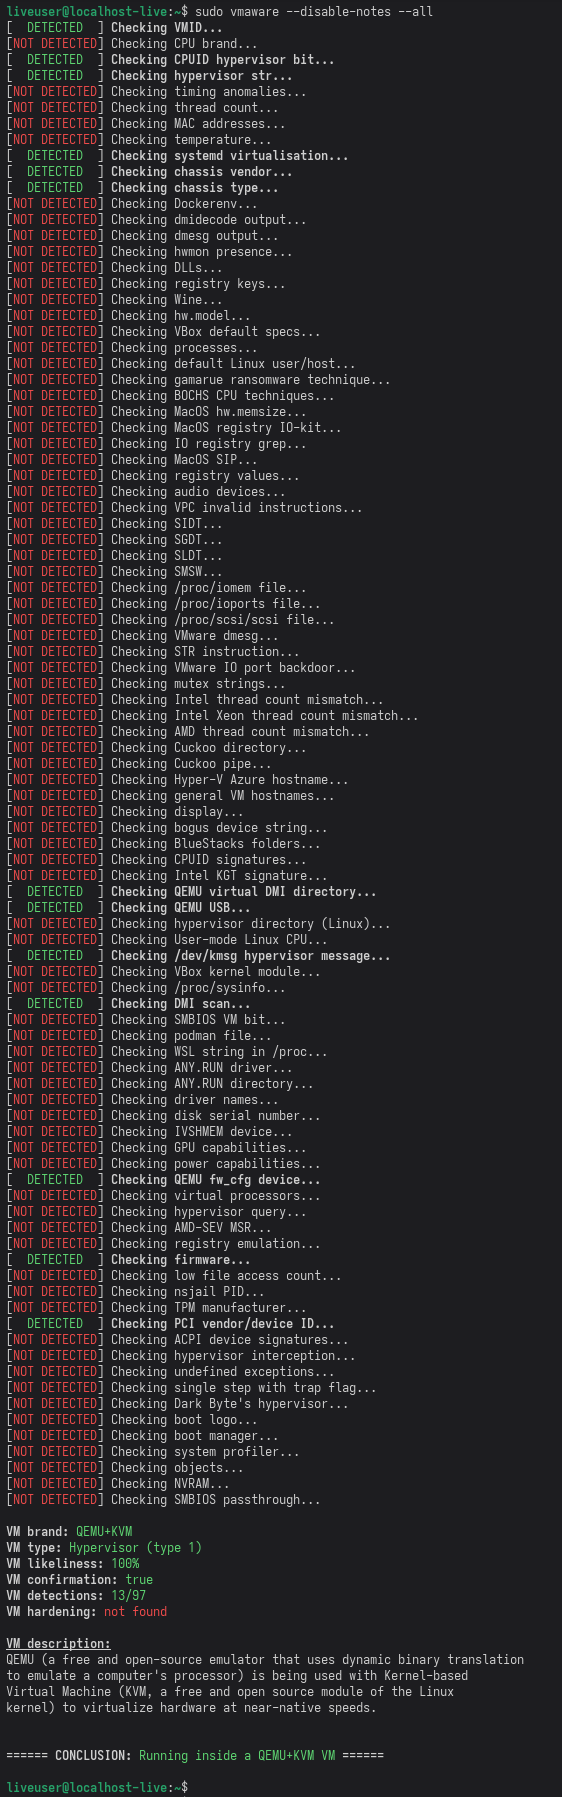
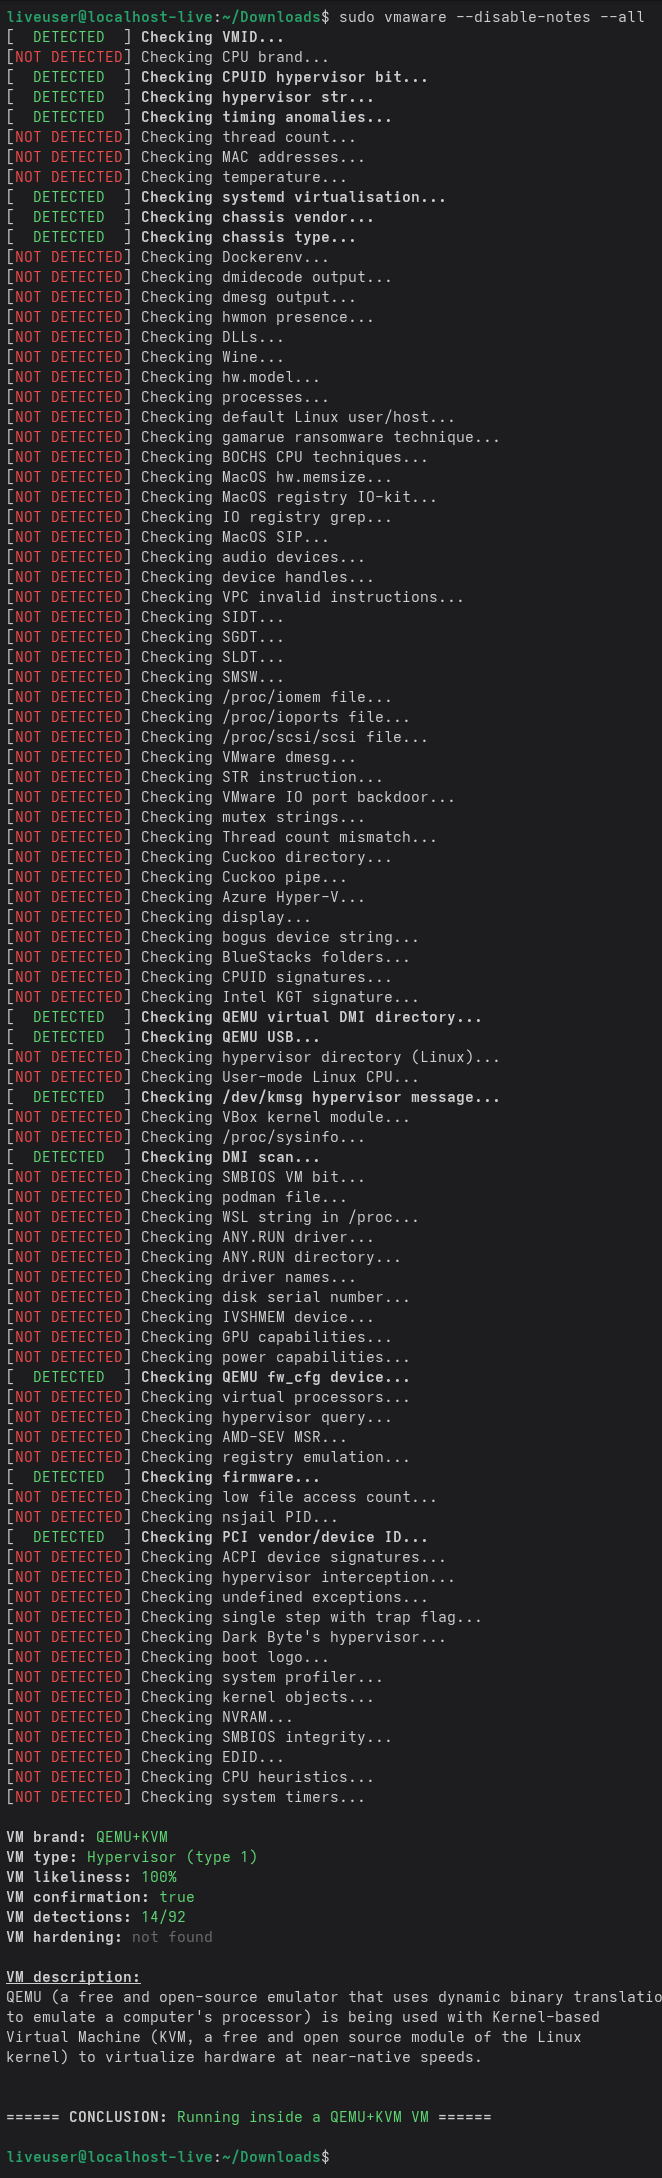
update: updated demo picture and added new emulator brands

Changed region(s): [[0.0, 0.0, 0.9377, 0.9972], [0.726, 0.0, 0.7865, 0.0312]]

diff --git a/src/cli.cpp b/src/cli.cpp
@@ -467,6 +467,9 @@ static const char* color(const u8 score) {
         nsjail
         DBVM
         UTM
+        Compaq FX!32
+        Insignia RealPC
+        Connectix Virtual PC
         )";
     std::exit(0);
 }
@@ -647,6 +650,9 @@ static const char* get_vm_description(const std::string& vm_brand) {
         { brands::NSJAIL, "nsjail is a process isolation tool for Linux. It utilizes Linux namespace subsystem, resource limits, and the seccomp-bpf syscall filters of the Linux kernel. It can be used for isolating networking services, CTF challenges, and containing invasive syscall-level OS fuzzers." },
         { brands::DBVM, "DBVM is a ultra-lightweight virtual machine host that makes Windows run in a virtual machine so that Cheat Engine can operate at a higher level than the OS using a device driver. Instead of virtualizing devices it generally passes on interrupts unaltered meaning it has a very small impact on performance." },
         { brands::UTM, "UTM for macOS is a free, open-source virtualization and emulation app that brings full-featured virtual machines to both Intel and Apple Silicon Macs. It employs Apple's Hypervisor virtualization framework to run ARM64 operating systems on Apple Silicon at near native speeds. On other architectures, it employs software emulation through QEMU." },
+        { brands::COMPAQ, "Compaq FX!32 is an emulator that is designed to run Win32 programs for the DEC instruction set architecture. Released in 1996, it was developed by developed by Digital Equipment Corporation (DEC) to support their Alpha microprocessors. It analyzed the way programs worked and, after the program ran, used binary translation to produce dynamic-link library (DLL) files of native Alpha code that the application could execute the next time it ran." },
+        { brands::INSIGNIA, "RealPC was an emulator for the Macintosh line of PCs. It emulated a Pentium-based PC to run Windows NT, Windows 95, and Windows 98 programs. It was discontinued in 2003." },
+        { brands::CONNECTIX, "Connectix VirtualPC was the predecessor to Microsoft's VirtualPC. Originally developed as a Macintosh application for System 7.5 and released by Connectix in June 1997, it supported various OS's such as Linux and old versions of Windows. It was bought by Microsoft in February 2003." },
         { brands::NULL_BRAND, "Indicates no detectable virtualization brand. This result may occur on bare-metal systems, unsupported/obscure hypervisors, or when anti-detection techniques (e.g., VM escaping) are employed by the guest environment." }
     };
 

diff --git a/src/vmaware.hpp b/src/vmaware.hpp
@@ -518,6 +518,9 @@ namespace brands {
     static constexpr const char* NSJAIL = "nsjail";
     static constexpr const char* DBVM = "DBVM";
     static constexpr const char* UTM = "UTM";
+    static constexpr const char* COMPAQ = "Compaq FX!32";
+    static constexpr const char* INSIGNIA = "Insignia RealPC";
+    static constexpr const char* CONNECTIX = "Connectix Virtual PC";
 }
 
 #if (VMA_CPP >= 17)
@@ -1085,7 +1088,10 @@ private:
                 {"IntelTDX    ", brands::INTEL_TDX},
                 {"LKVMLKVMLKVM", brands::LKVM},
                 {"Neko Project", brands::NEKO_PROJECT},
-                {"NoirVisor ZT", brands::NOIRVISOR}
+                {"NoirVisor ZT", brands::NOIRVISOR},
+                {"Compaq FX!32", brands::COMPAQ},
+                {"Insignia 586", brands::INSIGNIA},
+                {"ConnectixCPU", brands::CONNECTIX}
             };
 
             const auto it = brand_map.find(brand_str);
@@ -12474,6 +12480,9 @@ public: // START OF PUBLIC FUNCTIONS
             { brands::BOCHS, "Emulator" },
             { brands::BLUESTACKS, "Emulator" },
             { brands::NEKO_PROJECT, "Emulator" },
+            { brands::COMPAQ, "Emulator" },
+            { brands::INSIGNIA, "Emulator" },
+            { brands::CONNECTIX, "Emulator" },
             { brands::QEMU, "Emulator/Hypervisor (type 2)" },
             { brands::JAILHOUSE, "Partitioning Hypervisor" },
             { brands::UNISYS, "Partitioning Hypervisor" },
@@ -12826,6 +12835,9 @@ std::array<VM::core::brand_entry, VM::core::MAX_BRANDS> VM::core::brand_scoreboa
     insert(brands::NSJAIL);
     insert(brands::DBVM);
     insert(brands::UTM);
+    insert(brands::COMPAQ);
+    insert(brands::INSIGNIA);
+    insert(brands::CONNECTIX);
     insert(brands::NULL_BRAND);
 
     return arr;
